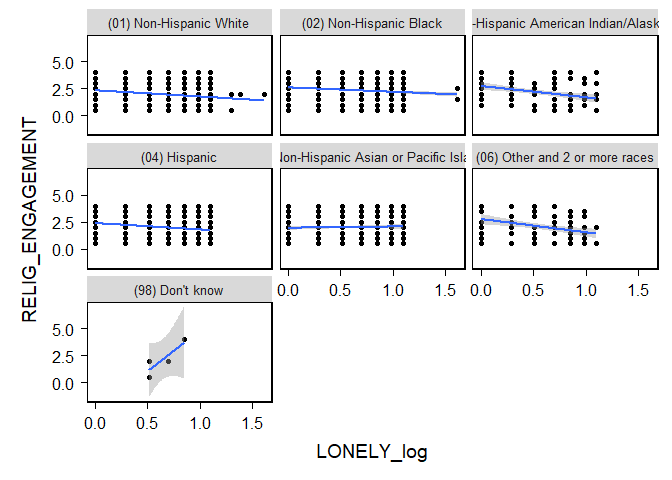
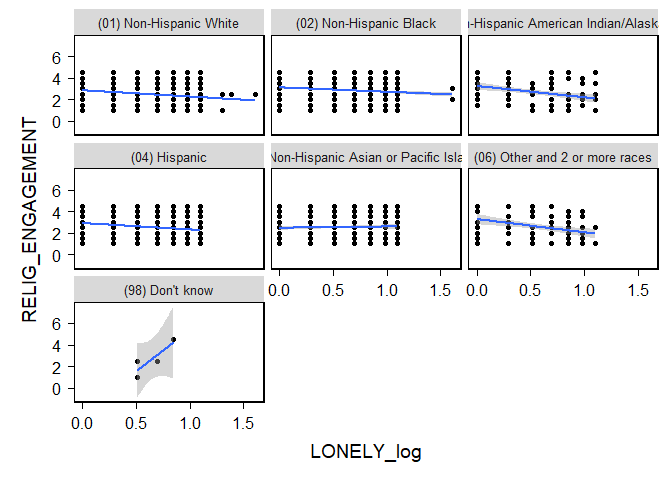
p

diff --git a/MyProject.md b/MyProject.md
@@ -137,7 +137,7 @@ summary(my_dataset)
 
 ``` r
 #recode and composite the variables
-my_dataset$RELIG_ATTEND <- 5 - as.numeric(my_dataset$RELIG_ATTEND)
+my_dataset$RELIG_ATTEND <- 6 - as.numeric(my_dataset$RELIG_ATTEND)
 my_dataset$RELIG_IMP <- 5 - as.numeric(my_dataset$RELIG_IMP)
 my_dataset$RELIG_ENGAGEMENT <- (my_dataset$RELIG_ATTEND + my_dataset$RELIG_IMP) / 2
 
@@ -344,3 +344,172 @@ ggplot(cor_data, aes(x = LONELY_log, y = RELIG_ENGAGEMENT)) + geom_point() + geo
     ## `geom_smooth()` using formula = 'y ~ x'
 
 ![](MyProject_files/figure-gfm/unnamed-chunk-7-2.png)<!-- -->
+
+# Exploratory Questions
+
+How do education affect the relationship between religious engagement
+and loneliness?
+
+``` r
+my_dataset$EDUC <- dataset$EDUC
+summary(my_dataset$EDUC)
+```
+
+    ##                              (1) Did not complete high school 
+    ##                                                           374 
+    ##                                (2) High school diploma or GED 
+    ##                                                          2435 
+    ##            (3) Attended college but did not complete a degree 
+    ##                                                          1802 
+    ##                                          (4) Associate degree 
+    ##                                                           988 
+    ##                                         (5) Bachelor's degree 
+    ##                                                          1397 
+    ## (6) Post-Bachelor's degree (e.g., Masters, Doctorate, MD, JD) 
+    ##                                                           648
+
+``` r
+leveneTest(LONELY_log ~ EDUC, data = my_dataset)
+```
+
+    ## Levene's Test for Homogeneity of Variance (center = median)
+    ##         Df F value  Pr(>F)  
+    ## group    5  2.8827 0.01324 *
+    ##       7638                  
+    ## ---
+    ## Signif. codes:  0 '***' 0.001 '**' 0.01 '*' 0.05 '.' 0.1 ' ' 1
+
+``` r
+my_dataset$LONELY_sqrt <- sqrt(my_dataset$LONELY)
+leveneTest(LONELY_sqrt ~ EDUC, data = my_dataset)
+```
+
+    ## Levene's Test for Homogeneity of Variance (center = median)
+    ##         Df F value  Pr(>F)  
+    ## group    5  2.0588 0.06745 .
+    ##       7638                  
+    ## ---
+    ## Signif. codes:  0 '***' 0.001 '**' 0.01 '*' 0.05 '.' 0.1 ' ' 1
+
+``` r
+skewness(my_dataset$LONELY_sqrt)
+```
+
+    ## [1] 0.1014501
+
+``` r
+kurtosis(my_dataset$LONELY_sqrt)
+```
+
+    ## [1] 1.937552
+
+``` r
+cor_data1 <- my_dataset %>% select(RELIG_ENGAGEMENT, LONELY_sqrt, EDUC)
+Corr(cor_data1)
+```
+
+    ## NOTE: `EDUC` transformed to numeric.
+    ## 
+    ## Pearson's r and 95% confidence intervals:
+    ## ─────────────────────────────────────────────────────────────────
+    ##                                   r       [95% CI]     p        N
+    ## ─────────────────────────────────────────────────────────────────
+    ## RELIG_ENGAGEMENT-LONELY_sqrt  -0.17 [-0.20, -0.15] <.001 *** 7644
+    ## RELIG_ENGAGEMENT-EDUC          0.13 [ 0.11,  0.15] <.001 *** 7644
+    ## LONELY_sqrt-EDUC              -0.12 [-0.14, -0.10] <.001 *** 7644
+    ## ─────────────────────────────────────────────────────────────────
+
+![](MyProject_files/figure-gfm/unnamed-chunk-8-1.png)<!-- -->
+
+    ## Correlation matrix is displayed in the RStudio `Plots` Pane.
+
+``` r
+PROCESS(my_dataset, y = "LONELY_sqrt", x = "RELIG_ENGAGEMENT", mods = c("EDUC"))
+```
+
+    ## 
+    ## ****************** PART 1. Regression Model Summary ******************
+    ## 
+    ## PROCESS Model Code : 1 (Hayes, 2018; www.guilford.com/p/hayes3)
+    ## PROCESS Model Type : Simple Moderation
+    ## -    Outcome (Y) : LONELY_sqrt
+    ## -  Predictor (X) : RELIG_ENGAGEMENT
+    ## -  Mediators (M) : -
+    ## - Moderators (W) : EDUC
+    ## - Covariates (C) : -
+    ## -   HLM Clusters : -
+    ## 
+    ## All numeric predictors have been grand-mean centered.
+    ## (For details, please see the help page of PROCESS.)
+    ## 
+    ## Formula of Outcome:
+    ## -    LONELY_sqrt ~ RELIG_ENGAGEMENT*EDUC
+    ## 
+    ## CAUTION:
+    ##   Fixed effect (coef.) of a predictor involved in an interaction
+    ##   denotes its "simple effect/slope" at the other predictor = 0.
+    ##   Only when all predictors in an interaction are mean-centered
+    ##   can the fixed effect denote the "main effect"!
+    ##   
+    ## Model Summary
+    ## 
+    ## ────────────────────────────────────────────────────────────────────────────────────────────────────────────────────
+    ##                                                                                     (1) LONELY_sqrt  (2) LONELY_sqrt
+    ## ────────────────────────────────────────────────────────────────────────────────────────────────────────────────────
+    ## (Intercept)                                                                            1.326 ***        1.386 ***   
+    ##                                                                                       (0.003)          (0.012)      
+    ## RELIG_ENGAGEMENT                                                                      -0.035 ***       -0.042 ***   
+    ##                                                                                       (0.002)          (0.012)      
+    ## EDUC(2) High school diploma or GED                                                                     -0.046 ***   
+    ##                                                                                                        (0.013)      
+    ## EDUC(3) Attended college but did not complete a degree                                                 -0.045 ***   
+    ##                                                                                                        (0.014)      
+    ## EDUC(4) Associate degree                                                                               -0.064 ***   
+    ##                                                                                                        (0.015)      
+    ## EDUC(5) Bachelor's degree                                                                              -0.097 ***   
+    ##                                                                                                        (0.014)      
+    ## EDUC(6) Post-Bachelor's degree (e.g., Masters, Doctorate, MD, JD)                                      -0.097 ***   
+    ##                                                                                                        (0.016)      
+    ## RELIG_ENGAGEMENT:EDUC(2) High school diploma or GED                                                     0.011       
+    ##                                                                                                        (0.012)      
+    ## RELIG_ENGAGEMENT:EDUC(3) Attended college but did not complete a degree                                 0.010       
+    ##                                                                                                        (0.013)      
+    ## RELIG_ENGAGEMENT:EDUC(4) Associate degree                                                               0.005       
+    ##                                                                                                        (0.013)      
+    ## RELIG_ENGAGEMENT:EDUC(5) Bachelor's degree                                                              0.012       
+    ##                                                                                                        (0.013)      
+    ## RELIG_ENGAGEMENT:EDUC(6) Post-Bachelor's degree (e.g., Masters, Doctorate, MD, JD)                      0.007       
+    ##                                                                                                        (0.014)      
+    ## ────────────────────────────────────────────────────────────────────────────────────────────────────────────────────
+    ## R^2                                                                                    0.030            0.042       
+    ## Adj. R^2                                                                               0.030            0.040       
+    ## Num. obs.                                                                           7644             7644           
+    ## ────────────────────────────────────────────────────────────────────────────────────────────────────────────────────
+    ## Note. * p < .05, ** p < .01, *** p < .001.
+    ## 
+    ## ************ PART 2. Mediation/Moderation Effect Estimate ************
+    ## 
+    ## Package Use : ‘interactions’ (v1.2.0)
+    ## Effect Type : Simple Moderation (Model 1)
+    ## Sample Size : 7644
+    ## Random Seed : -
+    ## Simulations : -
+    ## 
+    ## Interaction Effect on "LONELY_sqrt" (Y)
+    ## ────────────────────────────────────────────────
+    ##                             F df1  df2     p    
+    ## ────────────────────────────────────────────────
+    ## RELIG_ENGAGEMENT * EDUC  0.35   5 7632  .884    
+    ## ────────────────────────────────────────────────
+    ## 
+    ## Simple Slopes: "RELIG_ENGAGEMENT" (X) ==> "LONELY_sqrt" (Y)
+    ## ───────────────────────────────────────────────────────────────────────────────────────────────────────────────
+    ##  "EDUC"                                                        Effect    S.E.      t     p             [95% CI]
+    ## ───────────────────────────────────────────────────────────────────────────────────────────────────────────────
+    ##  (1) Did not complete high school                              -0.042 (0.012) -3.625 <.001 *** [-0.065, -0.019]
+    ##  (2) High school diploma or GED                                -0.031 (0.004) -7.262 <.001 *** [-0.040, -0.023]
+    ##  (3) Attended college but did not complete a degree            -0.032 (0.005) -6.730 <.001 *** [-0.041, -0.023]
+    ##  (4) Associate degree                                          -0.037 (0.006) -5.848 <.001 *** [-0.050, -0.025]
+    ##  (5) Bachelor's degree                                         -0.030 (0.005) -5.939 <.001 *** [-0.040, -0.020]
+    ##  (6) Post-Bachelor's degree (e.g., Masters, Doctorate, MD, JD) -0.035 (0.007) -4.696 <.001 *** [-0.050, -0.020]
+    ## ───────────────────────────────────────────────────────────────────────────────────────────────────────────────
